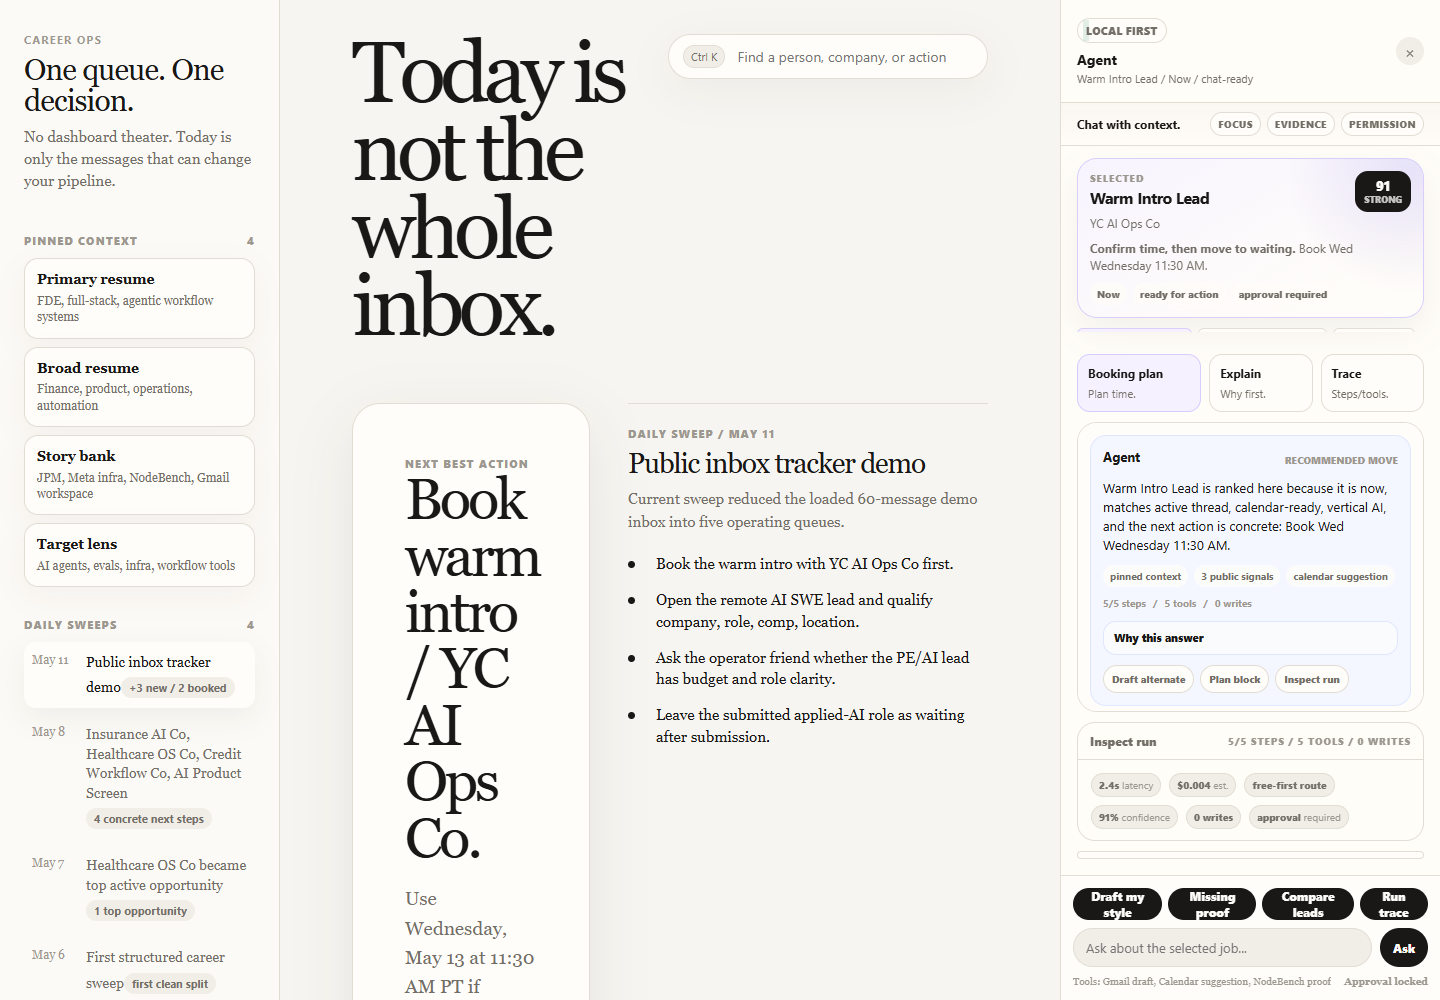
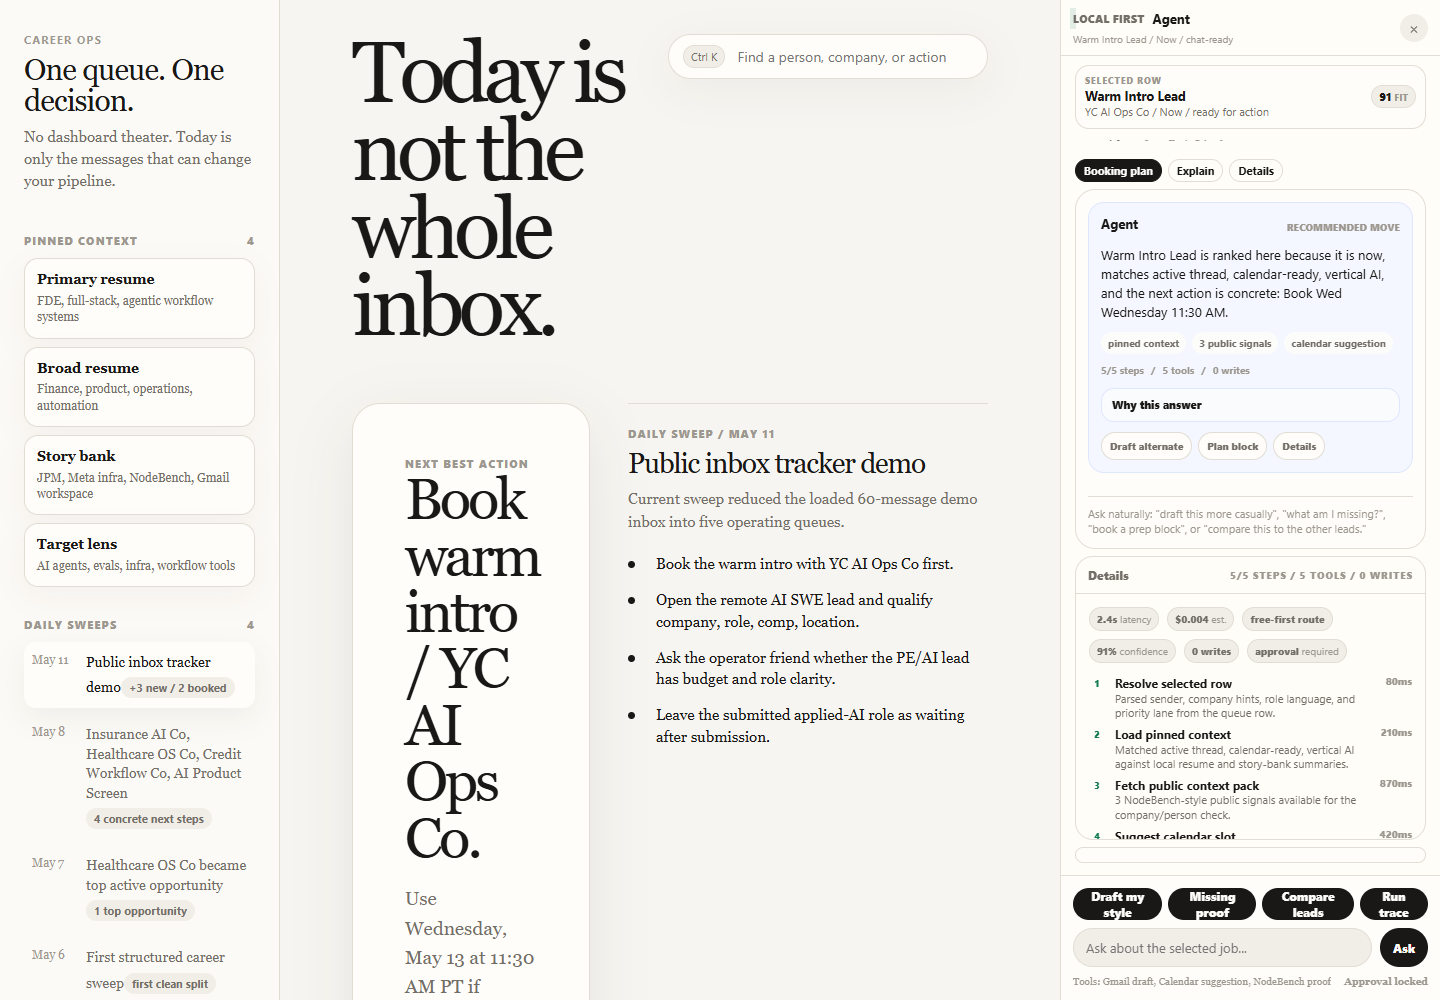
Redesign Today Queue agent rail chat-first

Changed region(s): [[0.7188, 0.0, 1.0, 0.868], [0.9688, 0.775, 1.0, 0.806]]

diff --git a/public/demo/today-queue.html b/public/demo/today-queue.html
@@ -736,19 +736,25 @@
       display: flex;
       align-items: center;
       justify-content: space-between;
-      gap: 12px;
+      gap: 10px;
       border-bottom: 1px solid var(--line);
-      padding: 16px;
+      padding: 9px 12px;
       font-family: ui-sans-serif, system-ui, -apple-system, BlinkMacSystemFont, "Segoe UI", sans-serif;
     }
 
     .agent-title {
       min-width: 0;
+      display: grid;
+      grid-template-columns: auto 1fr;
+      align-items: center;
+      column-gap: 8px;
+      row-gap: 2px;
     }
 
     .agent-head strong {
-      display: block;
-      font-size: 14px;
+      display: inline;
+      font-size: 13px;
+      line-height: 1.1;
     }
 
     .agent-head span {
@@ -758,18 +764,30 @@
       font-size: 11px;
     }
 
+    #agentContext {
+      grid-column: 1 / -1;
+      margin-top: 0;
+      min-width: 0;
+      overflow: hidden;
+      text-overflow: ellipsis;
+      white-space: nowrap;
+      font-family: var(--mono);
+      font-size: 10px;
+      color: var(--faint);
+    }
+
     .agent-status {
       display: inline-flex;
       align-items: center;
       gap: 6px;
       width: fit-content;
-      margin-bottom: 7px;
-      border: 1px solid var(--line);
-      border-radius: 999px;
-      background: var(--surface);
+      margin-bottom: 4px;
+      border: 0;
+      border-radius: 0;
+      background: transparent;
       color: var(--muted);
-      padding: 4px 8px;
-      font-size: 10px;
+      padding: 0;
+      font-size: 9px;
       font-weight: 800;
       letter-spacing: .02em;
       text-transform: uppercase;
@@ -797,9 +815,9 @@
     .agent-body {
       display: flex;
       flex-direction: column;
-      gap: 10px;
+      gap: 7px;
       overflow: hidden;
-      padding: 12px 16px 16px;
+      padding: 9px 14px 12px;
       font-family: ui-sans-serif, system-ui, -apple-system, BlinkMacSystemFont, "Segoe UI", sans-serif;
       font-size: 13px;
       flex: 1;
@@ -825,7 +843,7 @@
     }
 
     .agent-philosophy {
-      display: flex;
+      display: none;
       align-items: center;
       justify-content: space-between;
       gap: 10px;
@@ -1052,27 +1070,25 @@
     }
 
     .agent-context-strip {
-      border: 1px solid #d8cffc;
-      border-radius: 20px;
-      background:
-        radial-gradient(circle at 96% 8%, rgba(101, 78, 230, .14), transparent 34%),
-        linear-gradient(150deg, #f7f4ff 0%, #fffdf9 80%);
-      padding: 12px;
-      box-shadow: 0 14px 34px rgba(79, 65, 41, .07);
+      border: 1px solid var(--line);
+      border-radius: 14px;
+      background: var(--surface);
+      padding: 8px 9px;
+      box-shadow: none;
     }
 
     .strip-top {
       display: grid;
       grid-template-columns: 1fr auto;
-      gap: 10px;
-      align-items: start;
+      gap: 8px;
+      align-items: center;
     }
 
     .strip-label {
       display: block;
-      margin-bottom: 4px;
+      margin-bottom: 2px;
       color: var(--faint);
-      font-size: 10px;
+      font-size: 9px;
       font-weight: 900;
       letter-spacing: .08em;
       text-transform: uppercase;
@@ -1081,34 +1097,40 @@
     .strip-top strong {
       display: block;
       color: var(--ink);
-      font-size: 16px;
-      line-height: 1.12;
-      letter-spacing: -.03em;
+      font-size: 13px;
+      line-height: 1.16;
+      letter-spacing: -.01em;
     }
 
     .strip-score {
-      border-radius: 13px;
-      background: var(--ink);
-      color: var(--surface);
-      padding: 8px 9px;
+      border-radius: 999px;
+      background: var(--surface-2);
+      color: var(--ink);
+      border: 1px solid var(--line);
+      padding: 5px 7px;
       text-align: center;
       font-weight: 900;
       line-height: 1;
+      font-size: 11px;
     }
 
     .strip-score small {
-      display: block;
-      margin-top: 3px;
-      color: rgba(255, 253, 249, .76);
+      display: inline;
+      margin-top: 0;
+      margin-left: 3px;
+      color: var(--faint);
       font-size: 9px;
       text-transform: uppercase;
     }
 
     .agent-context-strip p {
-      margin: 8px 0 0;
+      margin: 2px 0 0;
       color: var(--muted);
-      font-size: 12px;
-      line-height: 1.4;
+      font-size: 11px;
+      line-height: 1.32;
+      white-space: nowrap;
+      overflow: hidden;
+      text-overflow: ellipsis;
     }
 
     .mini-readiness {
@@ -1128,13 +1150,36 @@
     }
 
     .agent-inline-actions {
-      display: grid;
-      grid-template-columns: 1.2fr 1fr 1fr;
-      gap: 8px;
+      display: flex;
+      align-items: center;
+      gap: 6px;
     }
 
     .agent-inline-actions .agent-command {
-      min-height: 54px;
+      min-height: 0;
+      border-radius: 999px;
+      padding: 5px 8px;
+      background: transparent;
+    }
+
+    .agent-inline-actions .agent-command strong {
+      margin: 0;
+      font-size: 11px;
+      line-height: 1;
+    }
+
+    .agent-inline-actions .agent-command span {
+      display: none;
+    }
+
+    .agent-inline-actions .agent-command.primary {
+      background: var(--ink);
+      color: var(--surface);
+      border-color: var(--ink);
+    }
+
+    .agent-inline-actions .agent-command.primary strong {
+      color: var(--surface);
     }
 
     .agent-modebar {
@@ -1145,22 +1190,23 @@
 
     .mode-chip {
       min-width: 0;
-      border: 1px solid var(--line);
+      border: 0;
       border-radius: 999px;
-      background: var(--surface);
-      color: var(--muted);
-      padding: 5px 8px;
+      background: transparent;
+      color: var(--faint);
+      padding: 0;
       font-size: 10px;
-      font-weight: 850;
+      font-weight: 800;
+      font-family: var(--mono);
       white-space: nowrap;
       text-overflow: ellipsis;
       overflow: hidden;
     }
 
     .mode-chip.active {
-      border-color: #d8cffc;
-      background: #f5f1ff;
-      color: var(--purple);
+      border-color: transparent;
+      background: transparent;
+      color: var(--muted);
     }
 
     .agent-run-strip {
@@ -1225,7 +1271,7 @@
     }
 
     .agent-chat-thread {
-      min-height: 290px;
+      min-height: 360px;
       flex: 1;
       overflow: auto;
       display: flex;
@@ -2628,30 +2674,24 @@
         <section class="agent-context-strip" aria-label="Selected context">
           <div class="strip-top">
             <div>
-              <span class="strip-label">Selected</span>
+              <span class="strip-label">Selected row</span>
               <strong>${activeRow.person}</strong>
-              <p>${activeRow.context}</p>
+              <p>${activeRow.context} / ${priorityText(activeRow.p)} / ${proof.status}</p>
             </div>
-            <div class="strip-score">${fit.score}<small>${fit.label}</small></div>
-          </div>
-          <p><strong>${shortActionFor(activeRow)}</strong> ${activeRow.next}</p>
-          <div class="mini-readiness">
-            <span>${priorityText(activeRow.p)}</span>
-            <span>${proof.status}</span>
-            <span>approval required</span>
+            <div class="strip-score">${fit.score}<small>fit</small></div>
           </div>
         </section>
 
         <section class="agent-modebar" aria-label="Agent mode and tool state">
-          <span class="mode-chip active">Mode: career triage</span>
-          <span class="mode-chip">Model: free-first route</span>
-          <span class="mode-chip">${telemetry.tools} tools ready</span>
+          <span class="mode-chip active">career triage</span>
+          <span class="mode-chip">free-first</span>
+          <span class="mode-chip">${telemetry.tools} tools</span>
         </section>
 
         <section class="agent-run-strip" aria-label="Agent run telemetry">
           <div class="run-title">
             <span class="run-status-dot" aria-hidden="true"></span>
-            <span><strong>${telemetry.status}</strong><small>${telemetry.id}</small></span>
+            <span><strong>${telemetry.status}</strong><small> / ${telemetry.id}</small></span>
           </div>
           <span class="run-metric">${telemetry.steps} steps</span>
           <span class="run-metric">${telemetry.tools} tools</span>
@@ -2661,7 +2701,7 @@
         <section class="agent-inline-actions" aria-label="Quick agent commands">
           <button class="agent-command primary" data-agent-mode="${primaryMode}" type="button"><strong>${modeTitle(primaryMode)}</strong><span>${primaryMode === "book" ? "Plan time." : primaryMode === "research" ? "Check proof." : "Write reply."}</span></button>
           <button class="agent-command" data-agent-mode="rank" type="button"><strong>Explain</strong><span>Why first.</span></button>
-          <button class="agent-command" data-agent-mode="trace" type="button"><strong>Trace</strong><span>Steps/tools.</span></button>
+          <button class="agent-command" data-agent-mode="trace" type="button"><strong>Details</strong><span>Steps/tools.</span></button>
         </section>
 
         <section class="agent-chat-thread" aria-label="Agent conversation">
@@ -2690,14 +2730,14 @@
             <div class="message-actions">
               <button type="button" data-agent-mode="draft">Draft alternate</button>
               <button type="button" data-agent-mode="book">Plan block</button>
-              <button type="button" data-agent-mode="trace">Inspect run</button>
+              <button type="button" data-agent-mode="trace">Details</button>
             </div>
           </div>
           <div class="chat-note">Ask naturally: "draft this more casually", "what am I missing?", "book a prep block", or "compare this to the other leads."</div>
         </section>
 
         <details class="agent-run-drawer">
-          <summary>Inspect run <span>${telemetry.steps} steps / ${telemetry.tools} tools / ${telemetry.writes}</span></summary>
+          <summary>Details <span>${telemetry.steps} steps / ${telemetry.tools} tools / ${telemetry.writes}</span></summary>
           <div class="agent-disclosure-body">
             <div class="ledger-summary" aria-label="Run telemetry summary">
               <span><strong>${telemetry.duration}</strong> latency</span>

diff --git a/README.md b/README.md
@@ -26,7 +26,7 @@ The latest public-safe artifact is a deliberately simplified career-inbox interf
 - daily sweeps visible in the rail
 - simple `Now`, `Prep`, `Batch`, and `Later` filters
 - `Cmd/Ctrl+K` search for person, company, or action
-- a full-height right-side chat rail: compact selected context, mode/model/tool state, subtle Parity Studio-style run telemetry, quick actions, message sources/actions/reasoning, collapsed run/tool ledger, collapsed proof drawer, suggested prompts, explicit permission boundary, and sticky composer
+- a full-height right-side chat rail: one-line selected object bar, mode/model/tool state, subtle Parity Studio-style run telemetry, compact actions, message sources/actions/reasoning, collapsed run/tool ledger, collapsed proof drawer, suggested prompts, explicit permission boundary, and sticky composer
 - NodeBench-style run anatomy: `plan -> tool_start -> tool_done -> answer -> ledger`, with visible steps, tool calls, latency, estimated cost, model route, source count, and `0 writes` until approval
 
 Open the standalone demo:

diff --git a/docs/agent-methods/minimal-inbox-redesign.md b/docs/agent-methods/minimal-inbox-redesign.md
@@ -104,7 +104,7 @@ For a premium desktop rail, structure it as:
 
 ```text
 header: active object + local-first status
-compact context strip: selected object + score + next action
+compact object bar: selected object + score + lane + proof state
 mode state: mode / model / tool activity chips
 run state: compact steps / tools / latency / cost / writes
 quick actions: draft / explain / verify
@@ -148,6 +148,8 @@ Run ready / 5 steps / 5 tools / 2.4s / $0.004 / 0 writes
 ```
 
 The Parity Studio chat reference keeps this subtle: tool calls are small inline chips, tool completions are faint single-line rows, and the composer remains the main affordance. Avoid a wall of telemetry cards unless the user explicitly opens the run ledger.
+
+Keep the first screen chat-first: the selected context should be one compact object bar, not a summary card. Move the recommendation and next action into the assistant response.
 
 The detailed drawer should show:
 

diff --git a/.claude/skills/minimal-inbox-redesign/SKILL.md b/.claude/skills/minimal-inbox-redesign/SKILL.md
@@ -143,7 +143,7 @@ The rail should read as a chat surface with compact decision context. Give it th
 
 ```text
 rail header with active object
--> compact selected context strip
+-> one-line selected object bar
 -> mode/model/tool state chips
 -> compact run telemetry strip
 -> quick action row
@@ -184,6 +184,8 @@ Run ready / run_id / 5 steps / 5 tools / 2.4s / $0.004 / 0 writes
 ```
 
 Keep that strip visually quiet. Use the Parity Studio chat rule: tool state should feel like a faint inline affordance, not a metrics card. Prefer mono microcopy, low-contrast chips, small status dots, and one-line tool result rows.
+
+The selected object should also be quiet. Keep it to one compact row with object name, fit score, lane, and proof state. Put the actual recommendation inside the assistant message so the rail remains chat-first.
 
 The detailed run trace belongs behind a disclosure:
 
